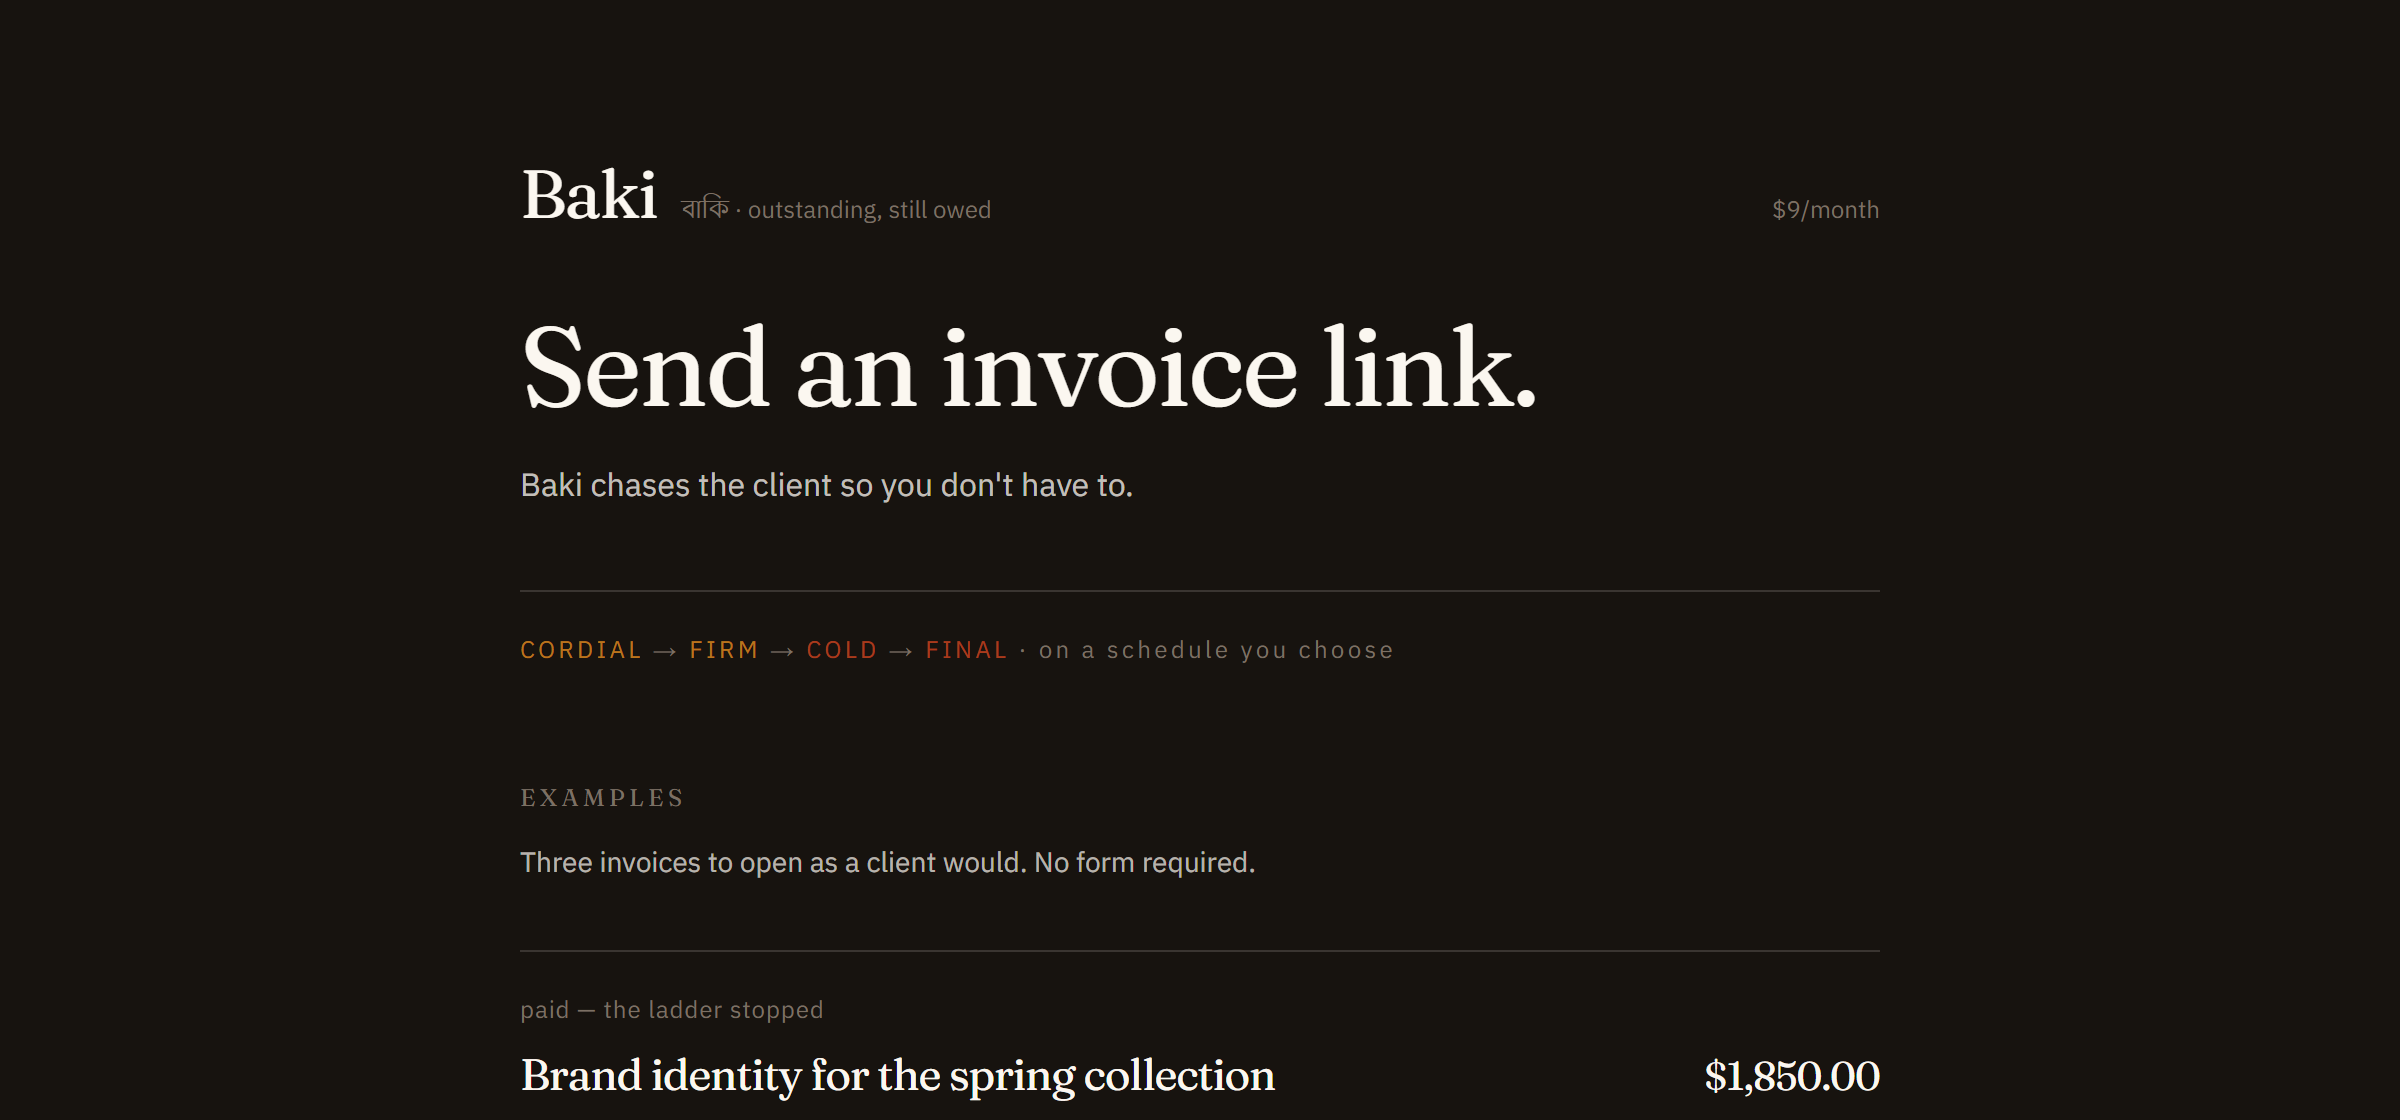
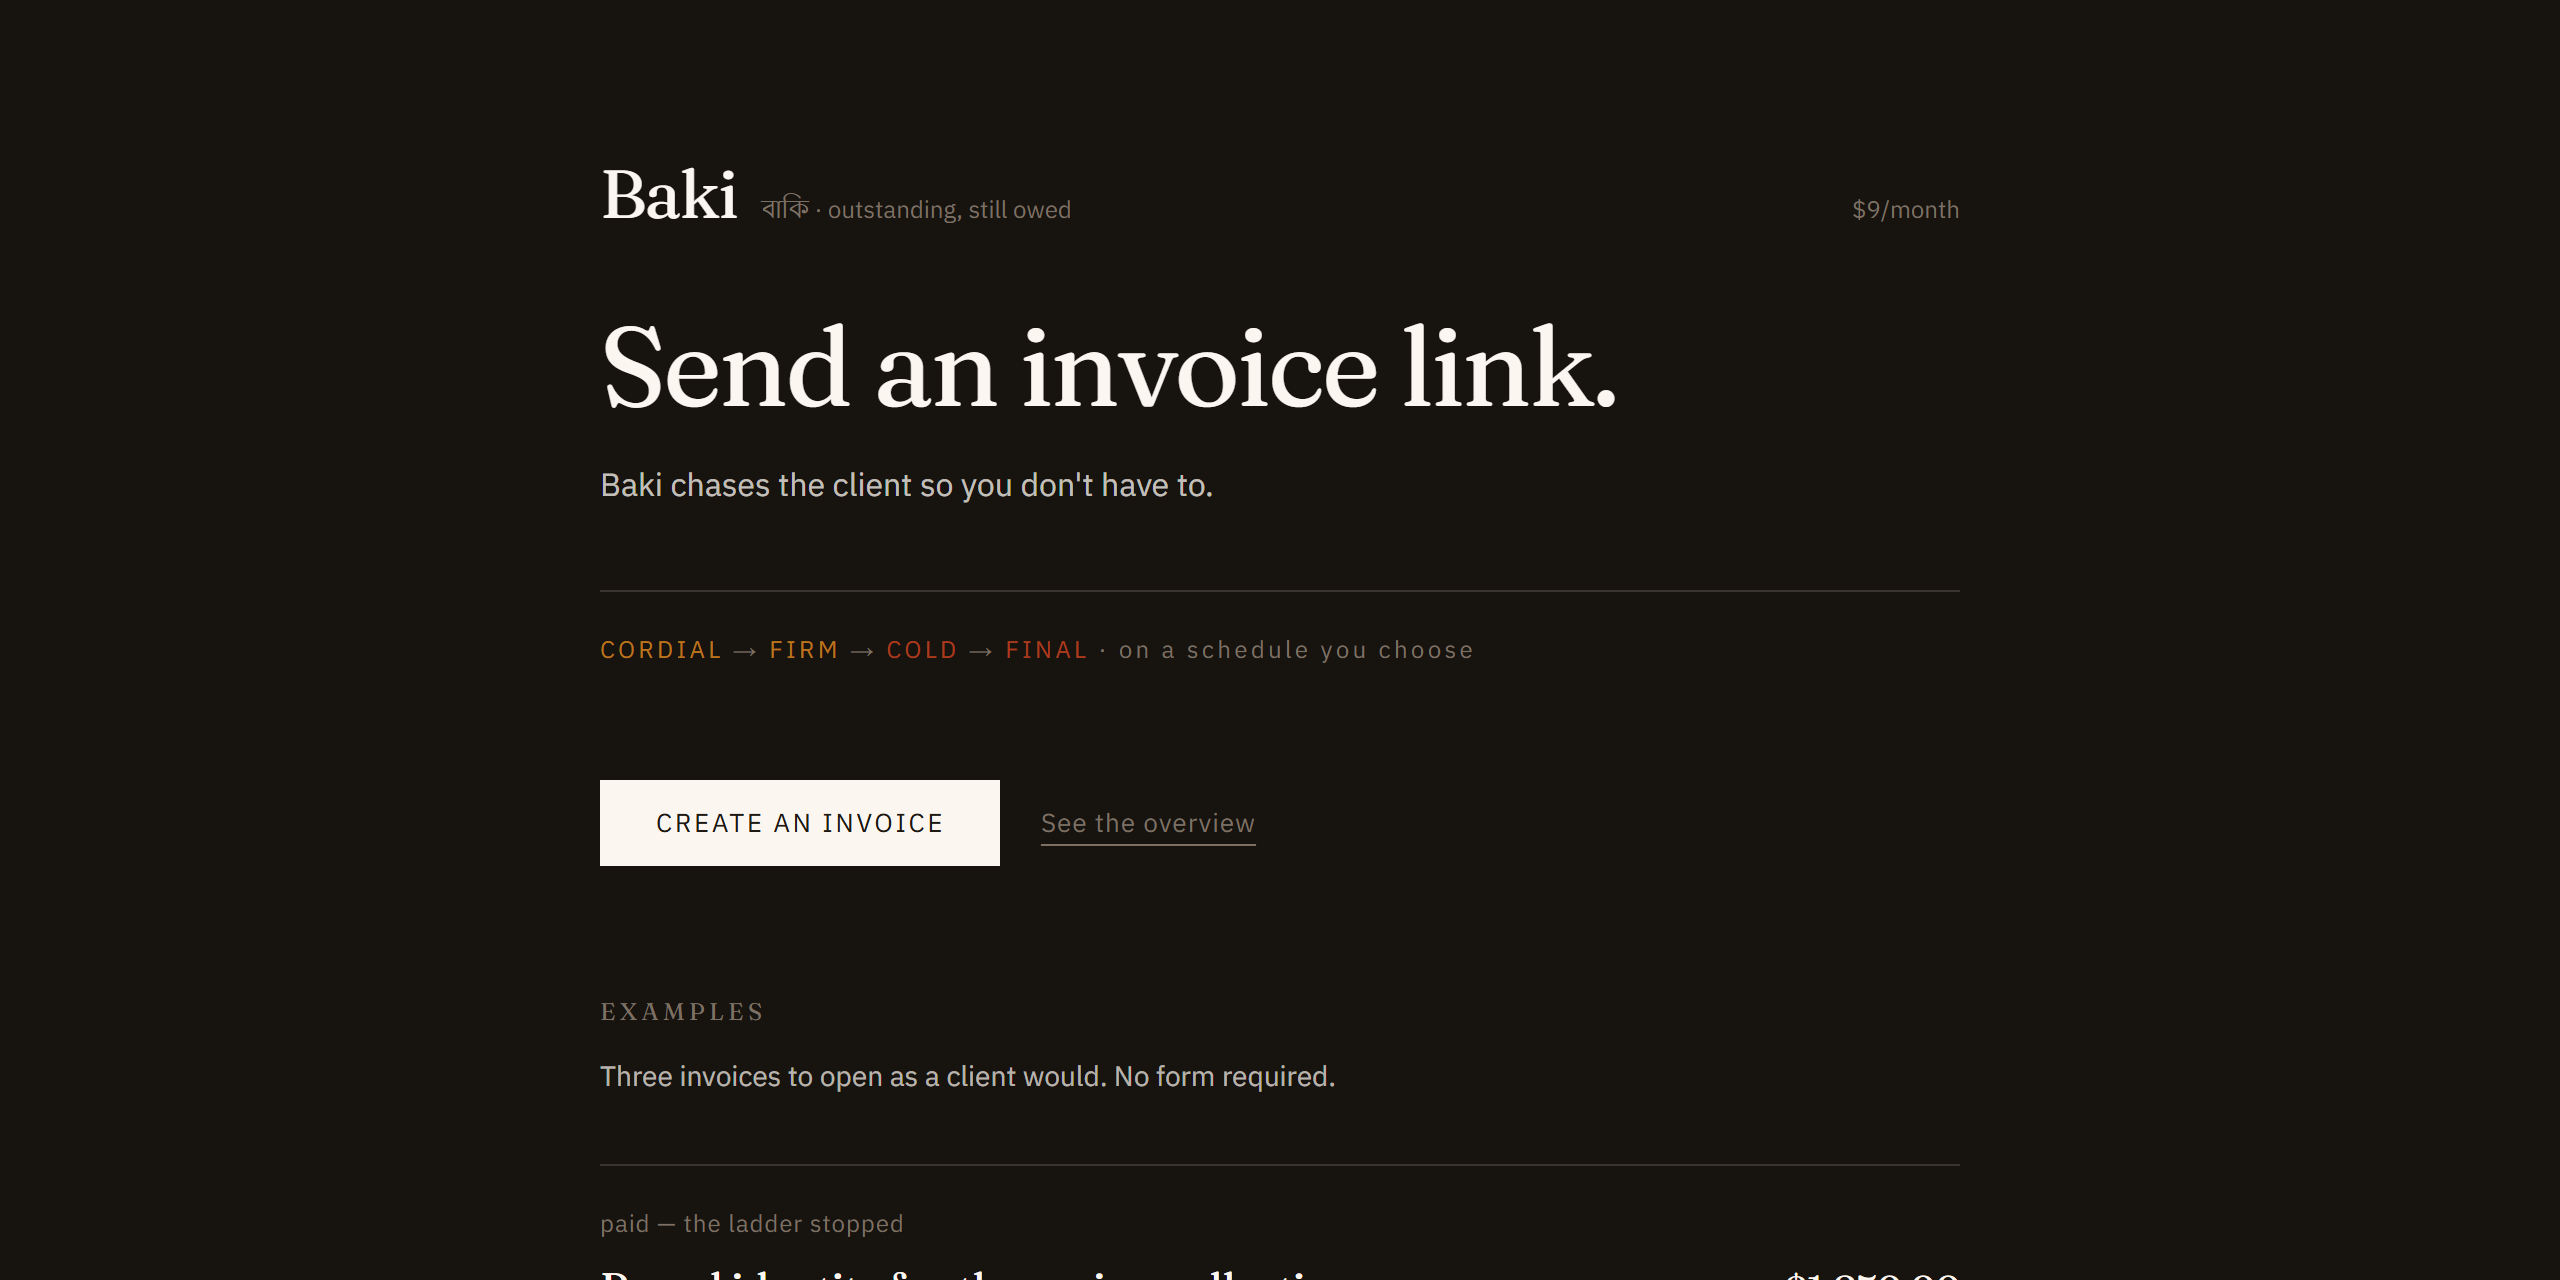
Document overview and request pages, stop state column wrapping

diff --git a/components/Dashboard.tsx b/components/Dashboard.tsx
@@ -136,7 +136,7 @@ export function Dashboard() {
                       </span>
                     ) : null}
                   </td>
-                  <td className="py-5 pr-6 text-[13px] tabular-nums text-muted">
+                  <td className="py-5 pr-6 text-[13px] whitespace-nowrap tabular-nums text-muted">
                     {row.views > 0 ? `${row.views}\u00d7` : "not yet"}
                   </td>
                   <td className="py-5 text-right font-serif text-[19px] tracking-tight tabular-nums">

diff --git a/README.md b/README.md
@@ -47,24 +47,24 @@ because it is uncomfortable.** Baki takes the discomfort out by deciding in adva
 <tr>
 <td width="50%" valign="top">
 
-**The client's view**
+**The overview**
 
-A live overdue counter, the current stage of the ladder, and the exact wording that
-goes with it. The page itself gets colder as the debt ages.
+What you are owed, what is late, and — the useful part — whether the client has actually
+opened the invoice. Per device, no account.
 
 </td>
 <td width="50%" valign="top">
 
-**The whole ladder, upfront**
+**The client's view**
 
-The freelancer sees every stage and its date before sending — so choosing a tone is a
-decision made once, calmly, instead of four separate uncomfortable ones later.
+A live overdue counter, the current stage of the ladder, and the wording that goes with
+it. The document itself gets colder as the debt ages.
 
 </td>
 </tr>
 <tr>
+<td width="50%"><img src="docs/04-dashboard.png" alt="The Baki overview showing outstanding, overdue and collected totals"></td>
 <td width="50%"><img src="docs/02-overdue.png" alt="An overdue invoice for $4,200 showing a live counter and a final notice"></td>
-<td width="50%"><img src="docs/03-ladder.png" alt="The escalation ladder showing all stages and dates"></td>
 </tr>
 </table>
 
@@ -95,6 +95,15 @@ invoice always produces the same ladder, and there is no scheduler state to drif
 A model writes the copy when `OPENROUTER_API_KEY` is set. Without it, the templates
 above are used and the product behaves identically. **The model is never load-bearing.**
 
+## Pages
+
+| Route | |
+|---|---|
+| `/` | What the product is, the ladder, and three example invoices |
+| `/new` | Create an invoice and get its link |
+| `/dashboard` | What you are owed, what is late, what has been opened |
+| `/invoice/[id]` | What the client sees |
+
 ## Pricing
 
 **$9/month.** One freelancer, unlimited invoices.
@@ -110,11 +119,17 @@ Built in one sitting. Three things work completely, and everything else was cut 
 purpose:
 
 **Built:** invoice creation → public link · the client-facing invoice page with live
-overdue state · the escalation ladder, previewable in full
+overdue state · the escalation ladder, previewable in full · an overview of what you are
+owed · client-open tracking
 
-**Deliberately not built:** authentication, a dashboard, multi-currency, recurring
-invoices, PDF export, and real scheduled email delivery. The ladder is *shown* rather
-than *sent*, because the mechanic is what needed proving, not the SMTP.
+**Deliberately not built:** authentication, multi-currency, recurring invoices, PDF
+export, and real scheduled email delivery. The ladder is *shown* rather than *sent*,
+because the mechanic is what needed proving, not the SMTP.
+
+**On history without accounts.** Baki has no login, so the invoices you create are
+remembered in `localStorage` on the device that created them and their live status is
+fetched by id. Private to that browser, nothing shared between visitors, and the overview
+falls back to demo data when the device is new.
 
 ### On payments
 
